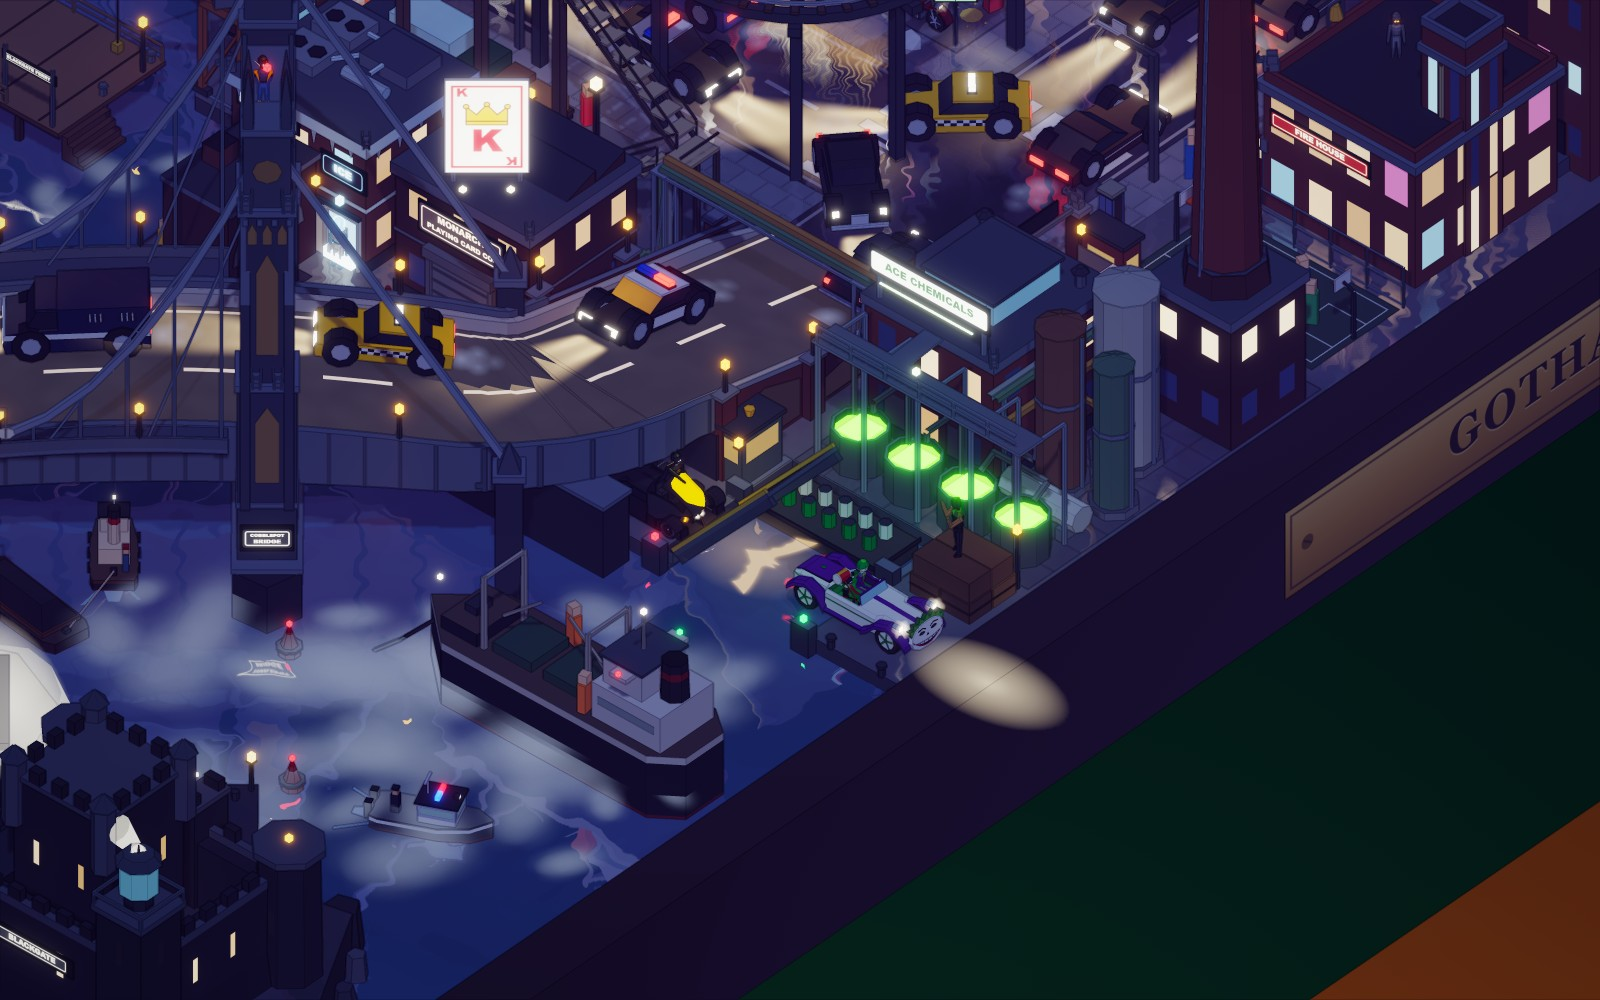
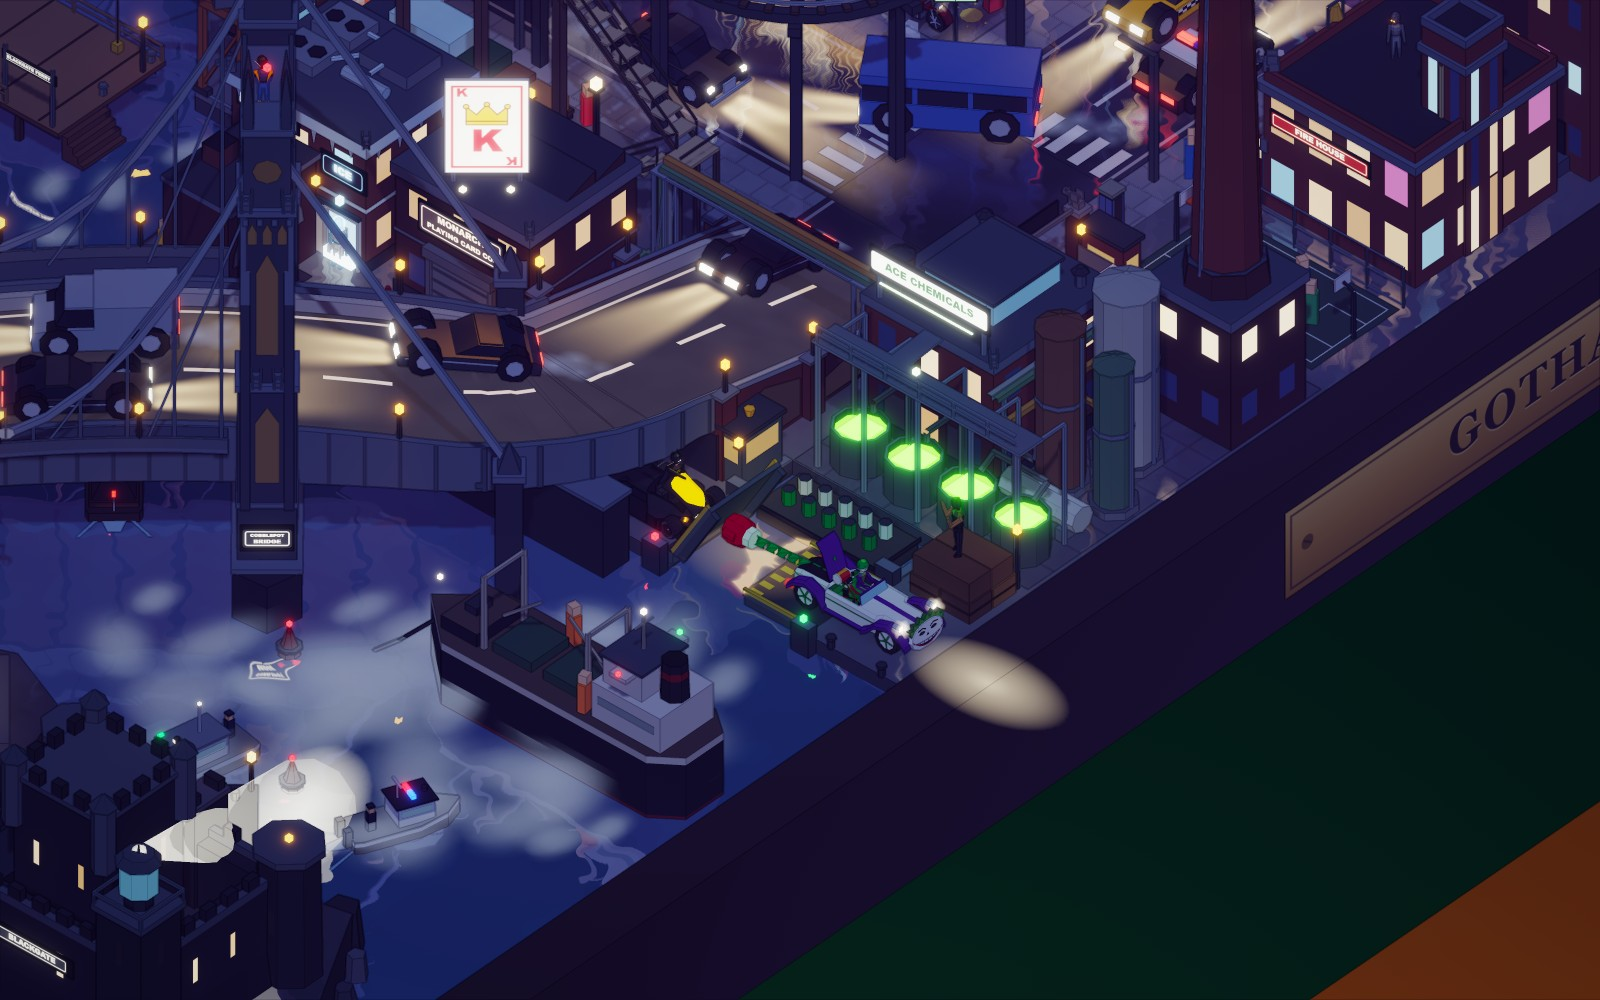
The README's picture of Gotham's chase, with the drawbridge of two leaves
Taken again at the moment the west leaf stands, the Jokermobile is across with its glove out and the Batmobile has stopped before the leaf. The tile's notes say when the bridge was merged.

diff --git a/README.md b/README.md
@@ -185,8 +185,8 @@ Batman's city, after DC's comics, drawn as the tile's own. Old Gotham stands on 
 | --- | --- |
 | ![A dark tile of a Gothic city on two banks of a river: a tall black tower with a spire and a clock tower at the left, grey towers with green caps on the right bank, a mansion on a green cliff at the back, a big wheel at the right, and bridges and an island fort in the harbour at the front](app/screenshots/gotham.jpg) | ![The same tile at night: every tower lit in strips of warm windows, a yellow bat shining on a cloud over the police roof, a searchlight in a square, and the wheel lit at the right](app/screenshots/gotham-night.jpg) |
 | Gotham City. | At night, with the Signal lit. |
-| ![A Gothic mansion with a clock tower on a cliff at night, a waterfall in an arch under it, and a low black car with a yellow canopy coming out through the fall onto a lane beside a river road, with police cars passing and a stone bridge tower in front](app/screenshots/gotham-batcave.jpg) | ![Docks at night: a purple and white open car with a grinning face on its nose on a quay beside vats that glow green, a black car behind it on a ramp, a freighter and a police boat on the water, and a lit sign with a crowned K over a card factory](app/screenshots/gotham-chase.jpg) |
-| The Batmobile out of the Batcave, through the waterfall under Wayne Manor. | The Jokermobile on the docks by Ace Chemicals' vats, with the Batmobile after it. |
+| ![A Gothic mansion with a clock tower on a cliff at night, a waterfall in an arch under it, and a low black car with a yellow canopy coming out through the fall onto a lane beside a river road, with police cars passing and a stone bridge tower in front](app/screenshots/gotham-batcave.jpg) | ![Docks at night: a purple and white open car with a grinning face on its nose across a cut in the quay, a red boxing glove out on a spring behind it, one leaf of a drawbridge standing up and a black car stopped before it, vats that glow green, a freighter and a police boat on the water, and a lit sign with a crowned K over a card factory](app/screenshots/gotham-chase.jpg) |
+| The Batmobile out of the Batcave, through the waterfall under Wayne Manor. | The Jokermobile over the docks' drawbridge by Ace Chemicals' vats, its glove out, and the Batmobile stopped at the raised leaf. |
 
 ![A city quarter at night: tall towers with lit windows, low brick houses under an elevated railway on black trestles, a lit big wheel and a roller coaster beside a boardwalk, a red and white chimney, and the gatehouse of a suspension bridge behind](app/screenshots/gotham-mile.jpg)
 

diff --git a/app/src/tiles/gotham/NOTES.md b/app/src/tiles/gotham/NOTES.md
@@ -4,7 +4,7 @@ This file records what a later reader cannot see in the code.
 
 **Where the tile stands.** Built on the branch `claude/gotham-tile`, as the tenth tile. The plan, the ground, the roads, the elevated railway, the ordinary buildings and what stands over the roads (`blocks.ts`), the life of the paving, the stage and the show's director are the tile session's. The districts, the figures, the machines, the animals, the air, the traffic's kinds and the stories are builders' files, each from the brief `tile-gotham-builders-brief.md` and a task sheet of its own in the shared notes folder, judged and mended by the tile session.
 
-**The merge.** Merged into `main` on 21 November 2026, at the collector's word, as it stood at `eeae366`. The bigger Batmobile followed the same day, as the branch stood at `7ada09b`, and the README's two pictures with the car in them were taken again. The main session gave it its place in `ORDER` in `app/src/tiles/index.ts`, the tenth; its postcard for the picker, which is taken at night with the Signal lit, since that is the picture of the tile; and its section and pictures in the README. With ten tiles built, every load leaves one in the box, and Gotham City is as likely to be that one as any other.
+**The merge.** Merged into `main` on 21 November 2026, at the collector's word, as it stood at `eeae366`. The bigger Batmobile followed the same day, as the branch stood at `7ada09b`, and the README's two pictures with the car in them were taken again. The drawbridge of two leaves followed that, as the branch stood at `f86bf61`, and the picture of the chase was taken once more, at body time 9.0. The main session gave it its place in `ORDER` in `app/src/tiles/index.ts`, the tenth; its postcard for the picker, which is taken at night with the Signal lit, since that is the picture of the tile; and its section and pictures in the README. With ten tiles built, every load leaves one in the box, and Gotham City is as likely to be that one as any other.
 
 ## The collector's decisions
 
